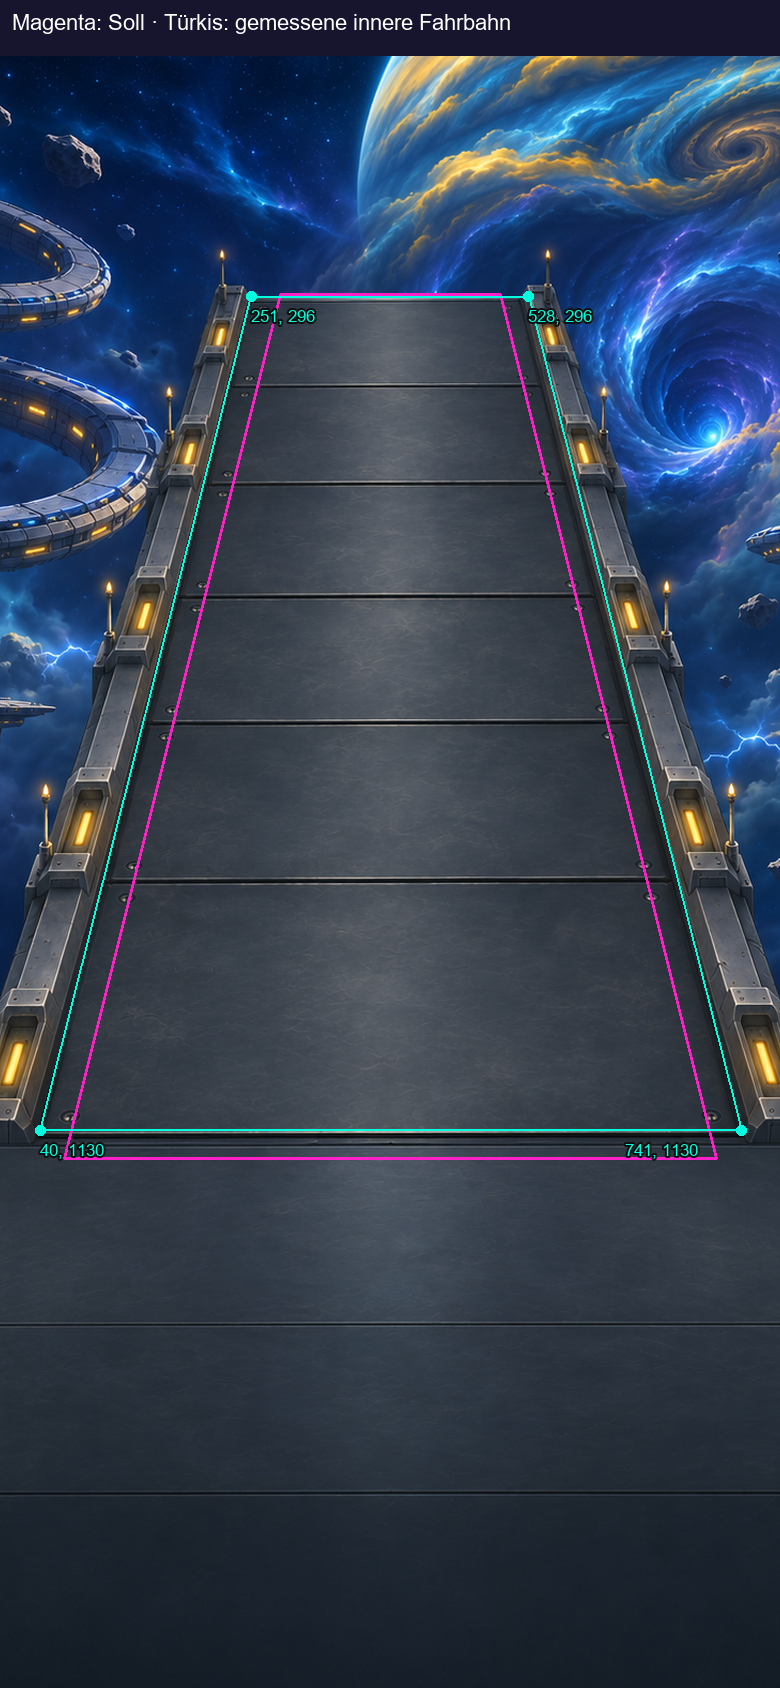
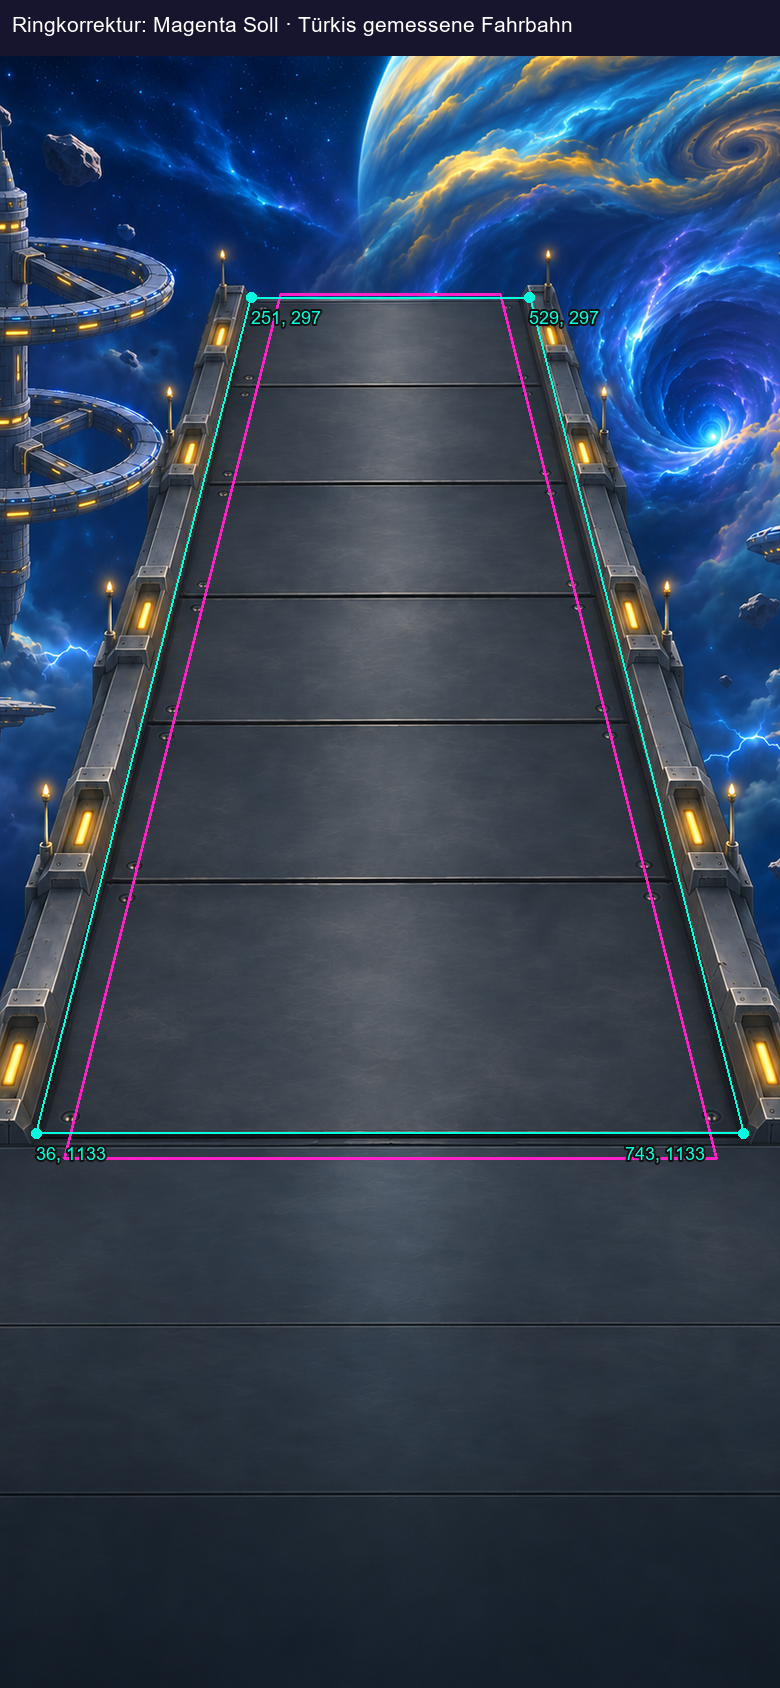
Freigegebene Ringkorrektur und vollständige Planetenübersichten für Claude bereitstellen

diff --git a/Vorlage_Raw/Planeten_51_150_v1/LAYOUT_FUER_CLAUDE.md b/Vorlage_Raw/Planeten_51_150_v1/LAYOUT_FUER_CLAUDE.md
@@ -1,6 +1,12 @@
-# Planeten 51–150: vollständige Gestaltungslieferung
+# Planeten 51–150: freigegebene Gestaltungslieferung, Stand 08.11.2026
 
 Acht weitere Schlachtfelder und dreizehn neue Symbole ergänzen die freigegebenen Dateien. Insgesamt stehen zehn neue Welten und fünfzehn Planetensymbole bereit. Alle Schlachtfelder sind PNG/RGB mit genau 780 × 1688 Pixeln. Die Symbole sind PNG/RGBA mit 512 × 512 Pixeln, echtem transparentem Hintergrund und etwa 8 % Außenrand. Farbraum sRGB.
+
+## Übergabe nach visueller Freigabe
+
+Der Nutzer hat die zusammengestellte Gestaltung für Claude freigegeben. `storm_giant.png` enthält jetzt die bestätigte Ringkorrektur: zwei klar getrennte Ringebenen, gemeinsame senkrechte Nabe, konzentrische Ringkonturen und radiale Tragarme mit stimmigen Anschlüssen. Die vier Fahrbahnecken wurden für diese neue Bildfassung erneut abgelesen; Werte aus der vorherigen Fassung nicht ungeprüft übernehmen. Die PNG-Abmessungen bleiben 780 × 1688 Pixel. Für neue Karten weiterhin gegebenenfalls entzerren und im Spiel prüfen; die visuelle Freigabe ersetzt keinen Godot-Test.
+
+`uebersicht.png` zeigt jetzt alle 15 Welten mit Symbolen. Für die zehn neuen Welten gibt es zusätzlich `neue_10_welten_detail_v2.png`; `alle_15_symbole_v2.png` zeigt nur die Symbole. `PRUEFLISTE.md` ordnet die Nummern 01–15 den Bildern zu. Die fünf bisherigen Weltkarten erscheinen ausschließlich als Vergleich in der Übersicht und werden nicht ersetzt. Claudes `ocean_world_korrigiert.png` bleibt unverändert und ist weiterhin die aktive Ozean-Fassung.
 
 ## Bereits freigegebene Dateien
 
@@ -15,7 +21,7 @@ Reihenfolge in dieser Tabelle und im Array: **oben links / oben rechts / unten l
 | jungle_moon.png | Dschungelmond | 51–60 | [280, 294] / [500, 294] / [66, 1164] / [715, 1164] | 6.3 px |
 | ocean_world_korrigiert.png | Ozeanwelt | 61–70 | [278, 293] / [501, 293] / [64, 1158] / [715, 1158] | 2.2 px |
 | crystal_planet.png | Kristallplanet | 71–80 | [280, 279] / [500, 279] / [66, 1164] / [715, 1164] | 15.0 px |
-| storm_giant.png | Sturmriese | 81–90 | [251, 296] / [528, 296] / [40, 1130] / [741, 1130] | 37.5 px |
+| storm_giant.png | Sturmriese | 81–90 | [251, 297] / [529, 297] / [36, 1133] / [743, 1133] | 37.5 px |
 | scrap_world.png | Schrottwelt | 91–100 | [249, 296] / [528, 296] / [38, 1131] / [743, 1131] | 38.2 px |
 | cloud_city.png | Wolkenstadt | 101–110 | [276, 264] / [502, 264] / [77, 1163] / [698, 1163] | 30.3 px |
 | spore_world.png | Sporenwelt | 111–120 | [279, 286] / [501, 286] / [61, 1164] / [719, 1164] | 8.1 px |
@@ -37,4 +43,4 @@ Die fünf bisherigen Schlachtfelder werden nicht ersetzt; ergänzt werden nur ih
 
 Nur eingebaute Bildgenerierung im bestehenden Konto verwendet. Keine weiteren kostenpflichtigen Dienste. Jede Karte und jedes Symbol wurde einzeln erstellt. Die neuen Karten sind Bearbeitungen von `space_dock.png` mit dem freigegebenen Dschungelmond als Geometrie-/Stilreferenz. Wolkenstadt und Schwarzes Loch erhielten zusätzlich eine Breitenkorrektur über die Bildgenerierung. Technische Formatierung: einheitliche Skalierung und Beschnitt, keine perspektivische Entzerrung. Alle tatsächlichen Bildanweisungen und Formatierungswerte stehen in `BILDANWEISUNGEN.json`.
 
-`uebersicht.png` zeigt die zehn neuen Welten nebeneinander und darunter alle fünfzehn Symbole. Alle Dateimaße, PNG-Modi, Transparenz und Symbolränder wurden technisch geprüft. Spielcode und bestehende freigegebene Bilddateien werden durch diese Lieferung nicht geändert.
+`uebersicht.png` zeigt alle fünfzehn Welten mit zugehörigen Symbolen; die zusätzliche Detailübersicht zeigt die zehn neuen Welten. Alle Dateimaße, PNG-Modi, Transparenz und Symbolränder wurden technisch geprüft. Der Spielcode bleibt unverändert. Bei den Bilddateien wird ausschließlich die bestätigte neue Ringfassung unter `storm_giant.png` übernommen; alle anderen bereits vorhandenen Karten und Symbole bleiben unverändert.

diff --git a/Vorlage_Raw/Planeten_51_150_v1/UEBERGABE_CLAUDE.md b/Vorlage_Raw/Planeten_51_150_v1/UEBERGABE_CLAUDE.md
@@ -1,0 +1,11 @@
+# Übergabe nach Freigabe am 08.11.2026
+
+Die Gestaltung der gesamten Übersicht ist vom Nutzer freigegeben. Bitte die neuen Karten und Symbole übernehmen und im Spiel prüfen.
+
+1. **Sturmriese:** `storm_giant.png` ist jetzt die bestätigte neue Fassung mit räumlich korrigierten Ringstationen. Die bisherigen Eckpunkte dieser Karte sind durch die aktuellen Werte in `PRUEFBERICHT.json` ersetzt. Vor einer Entzerrung die neue Bilddatei verwenden. Das zugehörige Prüfbild steht unter `pruefung/storm_giant_ecken.png`.
+2. **Ozeanwelt:** Weiterhin `ocean_world_korrigiert.png` benutzen. Die von Claude bereits korrigierte und eingebaute Datei bleibt unverändert. Nicht erneut generieren und nicht durch das historische `ocean_world.png` ersetzen.
+3. **Geometrie:** Für jede der zehn neuen Welten sind vier gemessene innere Fahrbahnecken in Pixeln vorhanden: oben links, oben rechts, unten links, unten rechts. Sollpunkte sind separat hinterlegt. Gemessene Werte sind Näherungen mit Messunsicherheit. Falls nötig entzerren, dann Gegnerweg, Mauerhöhe und Heldenplattform im Spiel prüfen. Die visuelle Freigabe ist kein Nachweis eines Godot-Tests durch ChatGPT.
+4. **Symbole:** Alle fünfzehn `icon_*.png` liegen einzeln mit 512 × 512 Pixeln und transparentem Hintergrund bereit. Die zwei früher freigegebenen Symbole wurden nicht ersetzt.
+5. **Kontrolle:** `uebersicht.png` zeigt alle fünfzehn Welten, `neue_10_welten_detail_v2.png` die zehn neuen Welten größer, `alle_15_symbole_v2.png` die Symbole und `PRUEFLISTE.md` die Reihenfolge 01–15. Die ursprünglichen fünf Schlachtfelder werden durch diese Lieferung nicht geändert.
+
+Einzelbilder verwenden, nicht aus den Übersichten ausschneiden. Details und Herstellung: `LAYOUT_FUER_CLAUDE.md`, `BILDANWEISUNGEN.json`, `PRUEFBERICHT.json`. Kein Spielcode geändert.

diff --git a/Vorlage_Raw/Planeten_51_150_v1/PRUEFLISTE.md b/Vorlage_Raw/Planeten_51_150_v1/PRUEFLISTE.md
@@ -1,0 +1,25 @@
+# Prüfliste aller 15 Welten
+
+Stand 08.11.2026. Zur Übergabe an Claude freigegeben. Die Übersicht zeigt den visuellen Stand vom 08.11.2026. Sturmriese zeigt die zuletzt freigegebene Ringkorrektur, Ozeanwelt Claudes bereits korrigierte Fassung.
+
+| Nr. | Welt | Einordnung | Verwendete Bilddatei |
+|---|---|---|---|
+| 01 | Raumdock | Bisherige Welt | space_dock.png |
+| 02 | Eiswelt | Bisherige Welt | ice_world.png |
+| 03 | Wüstenaußenposten | Bisherige Welt | desert_outpost.png |
+| 04 | Lava-Asteroid | Bisherige Welt | lava_asteroid.png |
+| 05 | Nebelportal | Bisherige Welt | nebula_portal.png |
+| 06 | Dschungelmond | Level 51–60 · freigegeben | jungle_moon.png |
+| 07 | Ozeanwelt | Level 61–70 · Claude-Korrektur | ocean_world_korrigiert.png |
+| 08 | Kristallplanet | Level 71–80 | crystal_planet.png |
+| 09 | Sturmriese | Level 81–90 · neue Ringkorrektur | storm_giant.png |
+| 10 | Schrottwelt | Level 91–100 | scrap_world.png |
+| 11 | Wolkenstadt | Level 101–110 | cloud_city.png |
+| 12 | Sporenwelt | Level 111–120 | spore_world.png |
+| 13 | Geistermond | Level 121–130 | ghost_moon.png |
+| 14 | Tempelplanet | Level 131–140 | temple_planet.png |
+| 15 | Schwarzes Loch | Level 141–150 | black_hole.png |
+
+Prüfpunkte: Raumtiefe und Ringgeometrie; gerade Brücke; freie Heldenplattform; ruhiger Anzeigenbereich; unterscheidbare Farben und Materialien; Planetensymbol passend zur Welt.
+
+Die Zusammenstellung ist eine Sichtprüfung. Maßprüfung und etwaige Entzerrungen der neuen Karten bleiben in den vorhandenen Berichten separat dokumentiert.
